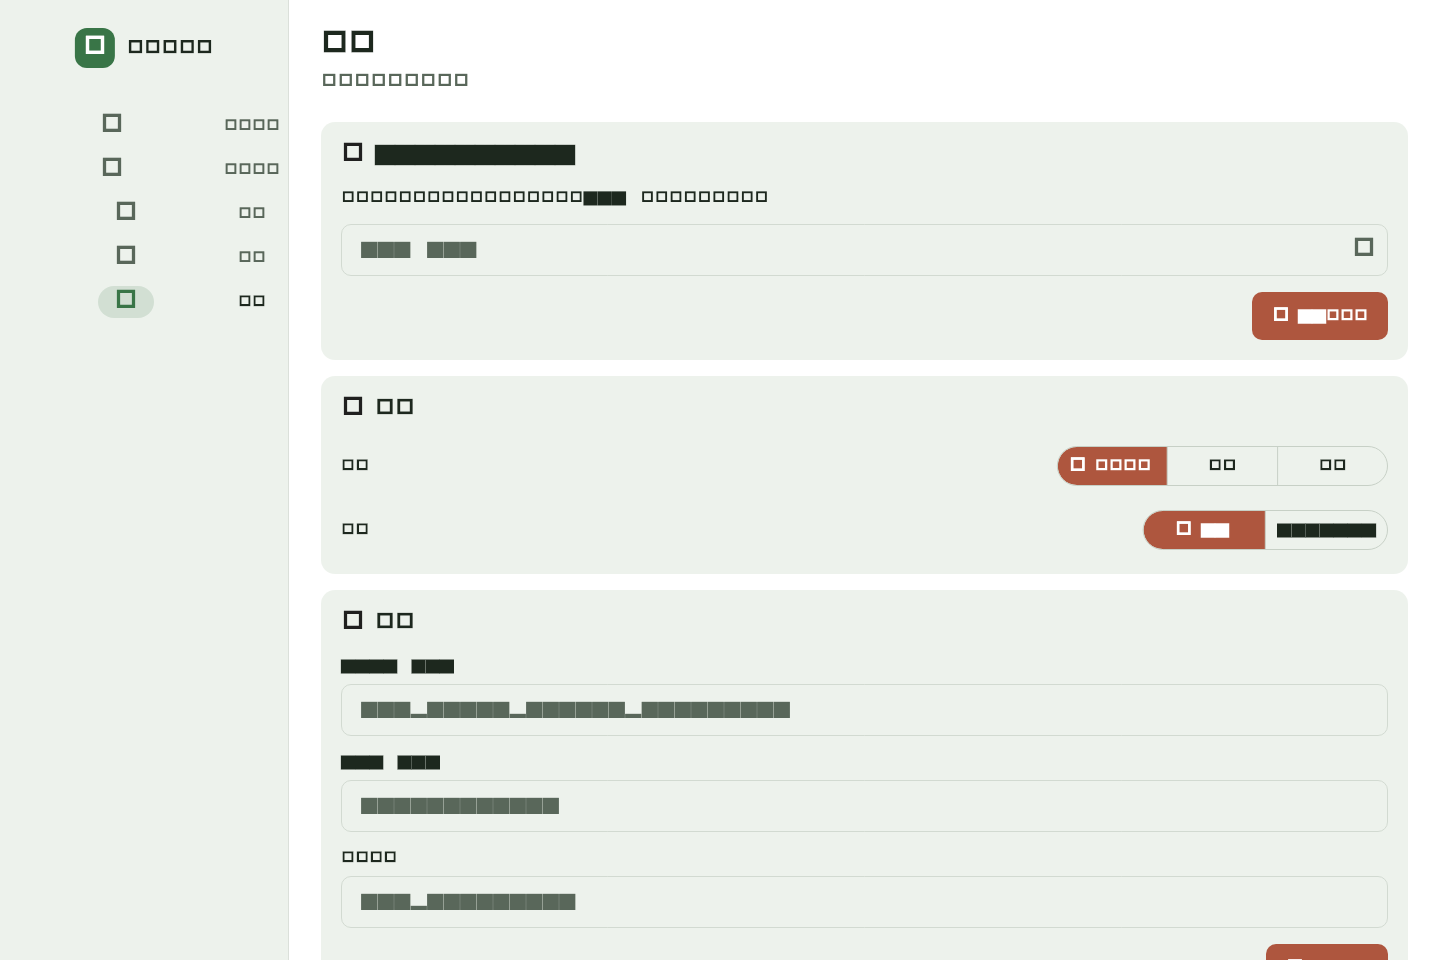
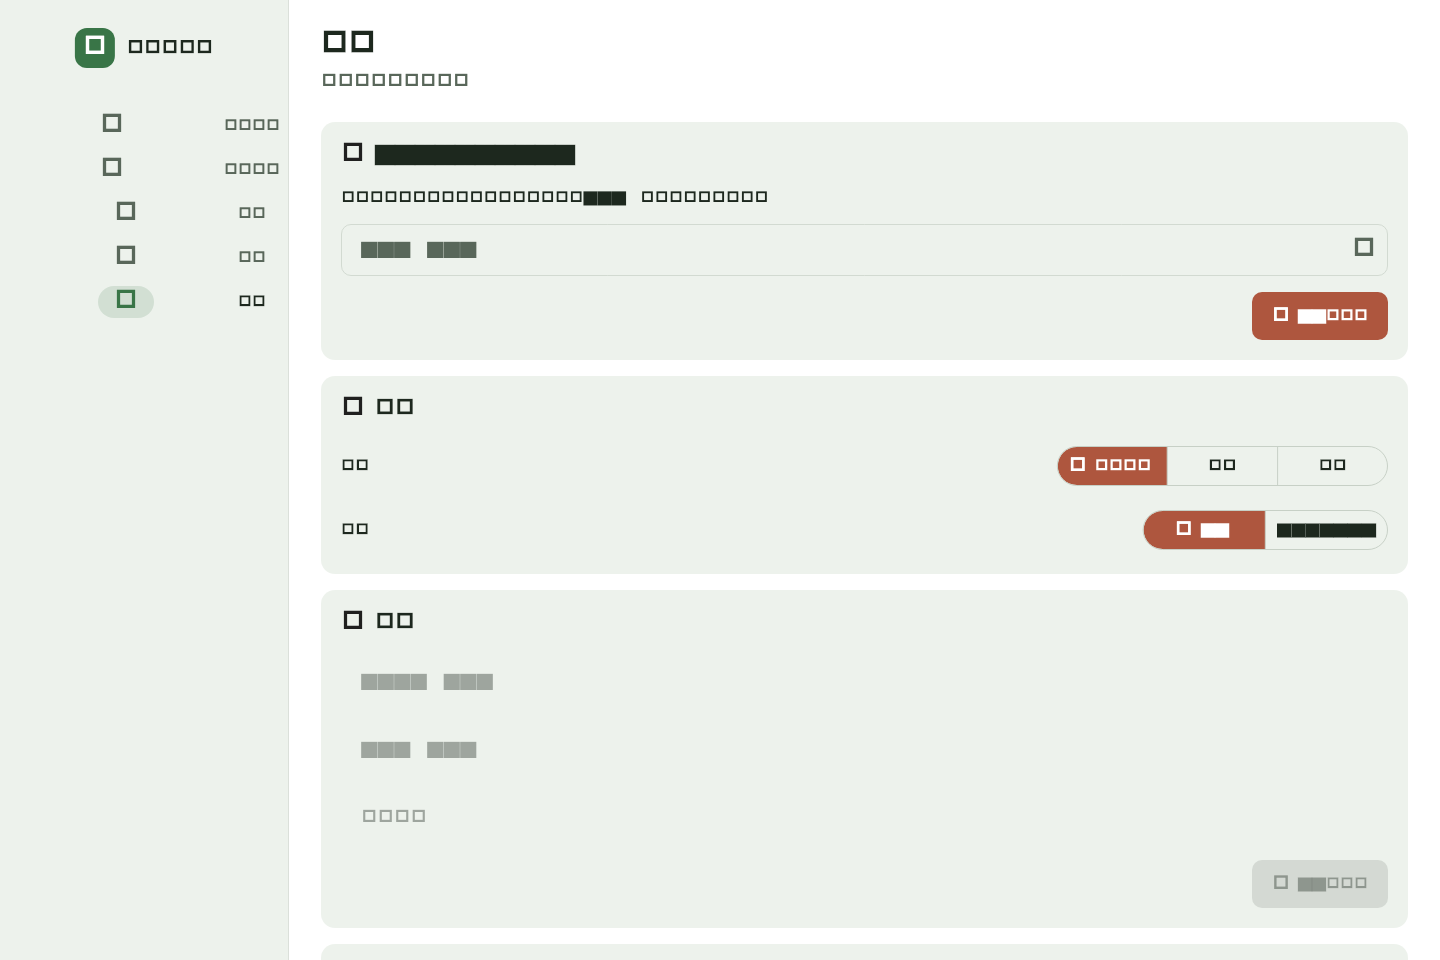
feat: add local data controls

Changed region(s): [[0.2188, 0.6875, 0.5625, 0.9688], [0.8438, 0.875, 0.9688, 1.0]]

diff --git a/lib/src/home_shell.dart b/lib/src/home_shell.dart
@@ -1315,11 +1315,73 @@ class SettingsPage extends StatelessWidget {
                   },
                 ),
               ),
+              const Divider(),
+              Material(
+                color: Colors.transparent,
+                child: ListTile(
+                  contentPadding: EdgeInsets.zero,
+                  leading: const Icon(Icons.delete_sweep_outlined),
+                  title: Text(copy.t('清除决策和预算', 'Clear decisions and budget')),
+                  onTap: () => _confirmClear(context, copy, clearConfig: false),
+                ),
+              ),
+              Material(
+                color: Colors.transparent,
+                child: ListTile(
+                  contentPadding: EdgeInsets.zero,
+                  leading: const Icon(Icons.key_off_outlined),
+                  title: Text(copy.t('清除 API 配置', 'Clear API configuration')),
+                  onTap: () => _confirmClear(context, copy, clearConfig: true),
+                ),
+              ),
             ],
           ),
         ],
       ),
     );
+  }
+
+  Future<void> _confirmClear(
+    BuildContext context,
+    GuardianCopy copy, {
+    required bool clearConfig,
+  }) async {
+    final confirmed =
+        await showDialog<bool>(
+          context: context,
+          builder: (context) => AlertDialog(
+            title: Text(
+              clearConfig
+                  ? copy.t('清除 API 配置？', 'Clear API configuration?')
+                  : copy.t('清除决策和预算？', 'Clear decisions and budget?'),
+            ),
+            content: Text(copy.t('这个操作不能撤销。', 'This cannot be undone.')),
+            actions: [
+              TextButton(
+                onPressed: () => Navigator.pop(context, false),
+                child: Text(copy.t('取消', 'Cancel')),
+              ),
+              FilledButton(
+                onPressed: () => Navigator.pop(context, true),
+                child: Text(copy.t('确认清除', 'Clear')),
+              ),
+            ],
+          ),
+        ) ??
+        false;
+    if (!confirmed) return;
+    if (clearConfig) {
+      await const ModelConfigStore().clear();
+      await onJustOneApiTokenChanged('');
+    } else {
+      await const DecisionStore().clear();
+      await const BudgetStore().clear();
+    }
+    if (context.mounted) {
+      ScaffoldMessenger.of(
+        context,
+      ).showSnackBar(SnackBar(content: Text(copy.t('已经清除。', 'Cleared.'))));
+    }
   }
 }
 

diff --git a/test/decision_store_test.dart b/test/decision_store_test.dart
@@ -50,4 +50,21 @@ void main() {
 
     expect((await store.readAll()).single.waitUntil, due);
   });
+
+  test('clears decision history', () async {
+    SharedPreferences.setMockInitialValues({});
+    const store = DecisionStore();
+    await store.add(
+      DecisionRecord(
+        itemName: '商品',
+        total: 1,
+        verdict: 'skip',
+        userChoice: 'skip',
+        summary: '不买',
+        createdAt: DateTime(2026),
+      ),
+    );
+    await store.clear();
+    expect(await store.readAll(), isEmpty);
+  });
 }

diff --git a/test/budget_store_test.dart b/test/budget_store_test.dart
@@ -35,4 +35,12 @@ void main() {
     expect(snapshot.spent, 323);
     expect(snapshot.left, 1677);
   });
+
+  test('clears monthly budget', () async {
+    SharedPreferences.setMockInitialValues({});
+    const store = BudgetStore();
+    await store.setLimit(1000);
+    await store.clear();
+    expect((await store.snapshot()).limit, 0);
+  });
 }

diff --git a/lib/src/settings/model_config_store.dart b/lib/src/settings/model_config_store.dart
@@ -34,4 +34,11 @@ class ModelConfigStore {
     await preferences.setString('model_name', config.model.trim());
     await keyStore.writeModelApiKey(config.apiKey);
   }
+
+  Future<void> clear() async {
+    final preferences = await SharedPreferences.getInstance();
+    await preferences.remove('model_base_url');
+    await preferences.remove('model_name');
+    await keyStore.writeModelApiKey('');
+  }
 }

diff --git a/lib/src/budget/budget_store.dart b/lib/src/budget/budget_store.dart
@@ -33,4 +33,9 @@ class BudgetStore {
         .fold<double>(0, (sum, record) => sum + record.total);
     return BudgetSnapshot(limit: limit, spent: spent);
   }
+
+  Future<void> clear() async {
+    final preferences = await SharedPreferences.getInstance();
+    await preferences.remove(_limitKey);
+  }
 }

diff --git a/lib/src/history/decision_store.dart b/lib/src/history/decision_store.dart
@@ -61,4 +61,9 @@ class DecisionStore {
       ...raw,
     ]);
   }
+
+  Future<void> clear() async {
+    final preferences = await SharedPreferences.getInstance();
+    await preferences.remove(_key);
+  }
 }